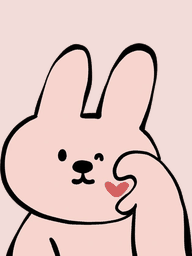
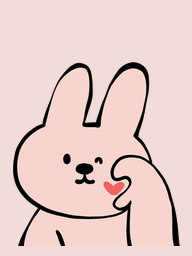
Begruessung nach dem Anmelden, Avatare zeigen mehr vom Koerper

Changed region(s): [[0.0, 0.1562, 1.0, 1.0]]

diff --git a/index.html b/index.html
@@ -1216,6 +1216,36 @@ body.nobar #v-onboard{padding-top:14px}
 .mbbar span:nth-child(5){animation-delay:.28s}
 .mbbar .leer{flex:1;background:rgba(238,242,255,.06);animation:none}
 
+/* ─── Begrüßung nach dem Anmelden ──────────────────────────────────────
+   Kurz, aber mit Anlauf: das Bild federt herein, dann der Name, dann der
+   Satz. Nach rund zweieinhalb Sekunden löst sich alles auf und der
+   Kalender liegt schon darunter. Nicht antippbar, damit niemand
+   versehentlich etwas im Kalender trifft. */
+.hallo{position:fixed;inset:0;z-index:60;display:none;place-items:center;
+  background:radial-gradient(circle at 50% 42%,rgba(23,36,84,.97),rgba(6,10,26,.99) 68%);
+  backdrop-filter:blur(14px);-webkit-backdrop-filter:blur(14px);pointer-events:none}
+.hallo.on{display:grid;animation:halloRein .5s var(--ease-out)}
+.hallo.weg{animation:halloWeg .55s var(--ease) forwards}
+@keyframes halloRein{from{opacity:0}}
+@keyframes halloWeg{to{opacity:0}}
+.hallo-in{text-align:center;padding:24px}
+.hallo-bild{width:min(62vw,212px);aspect-ratio:1;margin:0 auto 26px;border-radius:30%;
+  overflow:hidden;background:#fff;border:1px solid rgba(255,255,255,.22);
+  box-shadow:0 34px 70px -26px rgba(0,0,0,.8),0 0 60px -18px rgba(80,122,236,.4);
+  animation:halloBild .82s var(--ease-out) both}
+.hallo-bild img{width:100%;height:100%;object-fit:cover;object-position:center 86%;display:block}
+@keyframes halloBild{
+  0%{opacity:0;transform:scale(.7) rotate(-5deg)}
+  62%{opacity:1;transform:scale(1.05) rotate(1.5deg)}
+  100%{opacity:1;transform:none}
+}
+.hallo-in b{display:block;font-family:var(--font-dis);font-weight:400;
+  font-size:clamp(27px,7.6vw,40px);letter-spacing:-.015em;line-height:1.1;
+  animation:fadeUp .6s .34s var(--ease-out) both}
+.hallo-in b i{font-style:normal;color:var(--butter)}
+.hallo-s{display:block;margin-top:10px;font-size:clamp(14px,4vw,16px);color:var(--tx-2);
+  animation:fadeUp .6s .5s var(--ease-out) both}
+
 /* ─── Postfach ────────────────────────────────────────────────────────
    Eine Nachricht je Karte. Ungelesene tragen links einen goldenen
    Streifen und den Knopf zum Abhaken; gelesene treten zurück. */
@@ -2003,6 +2033,16 @@ section#v-onboard.on > #ob-nav{margin-top:auto}
       <button class="btn btn-p" id="sh-save">Übernehmen</button>
       <button class="btn btn-g" id="sh-del">Zurücksetzen</button>
     </div>
+  </div>
+</div>
+
+<!-- Begrüßung nach dem Anmelden. Hier darf der Charakter groß und
+     unbeschnitten auftreten — 3:4 Feld auf 3:4 Motiv. -->
+<div class="hallo" id="hallo" aria-hidden="true">
+  <div class="hallo-in">
+    <div class="hallo-bild"><img id="hallo-img" alt=""></div>
+    <b id="hallo-t">Hallo</b>
+    <span class="hallo-s">schön dich wieder zu sehen!</span>
   </div>
 </div>
 
@@ -3335,7 +3375,7 @@ $('#lg-go').addEventListener('click', () => {
   if(!p){ err.textContent = 'Kein Profil gefunden. Prüfe Vorname und Geburtsdatum — oder melde dich neu an.'; err.style.display = 'block'; return; }
   ME = normalize(p); DB.activeId = p.id; save();
   enterApp();
-  toast('Hallo ' + p.vorname + '!');
+  zeigeHallo();
 });
 $('#lg-new').addEventListener('click', () => { obInit(); go('v-onboard'); });
 $('#lg-send').addEventListener('click', sendLink);
@@ -3373,7 +3413,7 @@ async function verifyCode(){
     let r = await sb.auth.verifyOtp({ email:_lastMail, token, type:'email' });
     if(r.error) r = await sb.auth.verifyOtp({ email:_lastMail, token, type:'signup' });
     if(r.error) throw r.error;
-    if(r.data && r.data.session && !UID) await afterLogin(r.data.session);
+    if(r.data && r.data.session && !UID) await afterLogin(r.data.session, true);
   }catch(e){
     err.textContent = 'Der Code passt nicht oder ist abgelaufen. Lass dir einen neuen schicken.';
     err.style.display = 'block';
@@ -3423,6 +3463,28 @@ function enterApp(){
   Q.from = Q.to = null; Q.y = CAL.y; Q.m = CAL.m;
   exYear(); renderCal(); renderQCal();
   go('v-cal');
+}
+
+/* ═══════════════════════════════════════════════════════════
+   BEGRÜSSUNG
+   Läuft nach jeder Anmeldung — Passkey, Code oder örtlich. Der
+   Kalender steht darunter bereits fertig, die Begrüßung liegt nur
+   davor und löst sich von selbst auf.
+   ═══════════════════════════════════════════════════════════ */
+let _halloT = null;
+function zeigeHallo(){
+  if(!ME || !ME.vorname) return;
+  const el = $('#hallo');
+  clearTimeout(_halloT);
+  $('#hallo-img').src = avDatei(avNummer());
+  $('#hallo-t').innerHTML = 'Hallo <i>' + esc(ME.vorname) + '</i>,';
+  el.classList.remove('weg');
+  void el.offsetWidth;                       /* Animationen neu anstoßen */
+  el.classList.add('on');
+  _halloT = setTimeout(() => {
+    el.classList.add('weg');
+    _halloT = setTimeout(() => { el.classList.remove('on','weg'); }, 560);
+  }, 2350);
 }
 
 /* ═══════════════════════════════════════════════════════════
@@ -3527,7 +3589,7 @@ const AVATARE = 12;
 /* Die Versionsangabe hängt am Namen, damit ein überarbeitetes Motiv auch
    bei Geräten ankommt, die die alte Datei schon im Zwischenspeicher haben.
    Bei jeder Änderung an den Bildern wird die Zahl erhöht. */
-const AV_STAND = 5;
+const AV_STAND = 6;
 function avDatei(n){ return 'av-' + n + '.png?v=' + AV_STAND; }
 function avZufall(){
   /* Aus Vorname und Geburtsdatum eine Zahl bilden — gleicher Mensch,
@@ -4920,7 +4982,10 @@ function bootLocal(){
   else { obInit(); go('v-onboard'); }
 }
 
-async function afterLogin(session){
+/* frisch === true heißt: hier hat sich gerade jemand angemeldet — Passkey
+   oder Code. Nur dann wird begrüßt. Eine bloß wiederhergestellte Sitzung
+   beim Öffnen der App bekommt keine zweite Animation nach dem Vorspann. */
+async function afterLogin(session, frisch){
   UID = session.user.id;
   MAIL = session.user.email || '';
   /* Passkey-Stand holen, sonst bleiben die Menüeinträge auf display:none
@@ -4948,7 +5013,7 @@ async function afterLogin(session){
       ME = normalize(JSON.parse(JSON.stringify(local)));
       cloudQueue();
       toast('Deine Daten sind jetzt gesichert');
-      await askPasskey(() => enterApp());
+      await askPasskey(() => { enterApp(); if(frisch) zeigeHallo(); });
       return;
     }
     /* Kein Datensatz UND keine Verbindung: das kann auch eine Person mit
@@ -4965,8 +5030,8 @@ async function afterLogin(session){
   ME = normalize(rec);
   setSync(offline ? 'offline' : 'ok');
   if(push) cloudQueue();
-  if(offline){ enterApp(); return; }
-  await askPasskey(() => enterApp());
+  if(offline){ enterApp(); if(frisch) zeigeHallo(); return; }
+  await askPasskey(() => { enterApp(); if(frisch) zeigeHallo(); });
 }
 
 $('#wt-retry').addEventListener('click', () => location.reload());
@@ -5008,7 +5073,7 @@ $('#pk-ask-skip').addEventListener('click', () => {
   const ok = await cloudBoot();
   if(!ok){ bootLocal(); return; }
   sb.auth.onAuthStateChange((evt, session) => {
-    if(evt === 'SIGNED_IN' && session && !UID) afterLogin(session);
+    if(evt === 'SIGNED_IN' && session && !UID) afterLogin(session, true);
     if(evt === 'SIGNED_OUT' && ME){ ME = null; UID = null; loginScreen(); }
   });
   let session = null;
